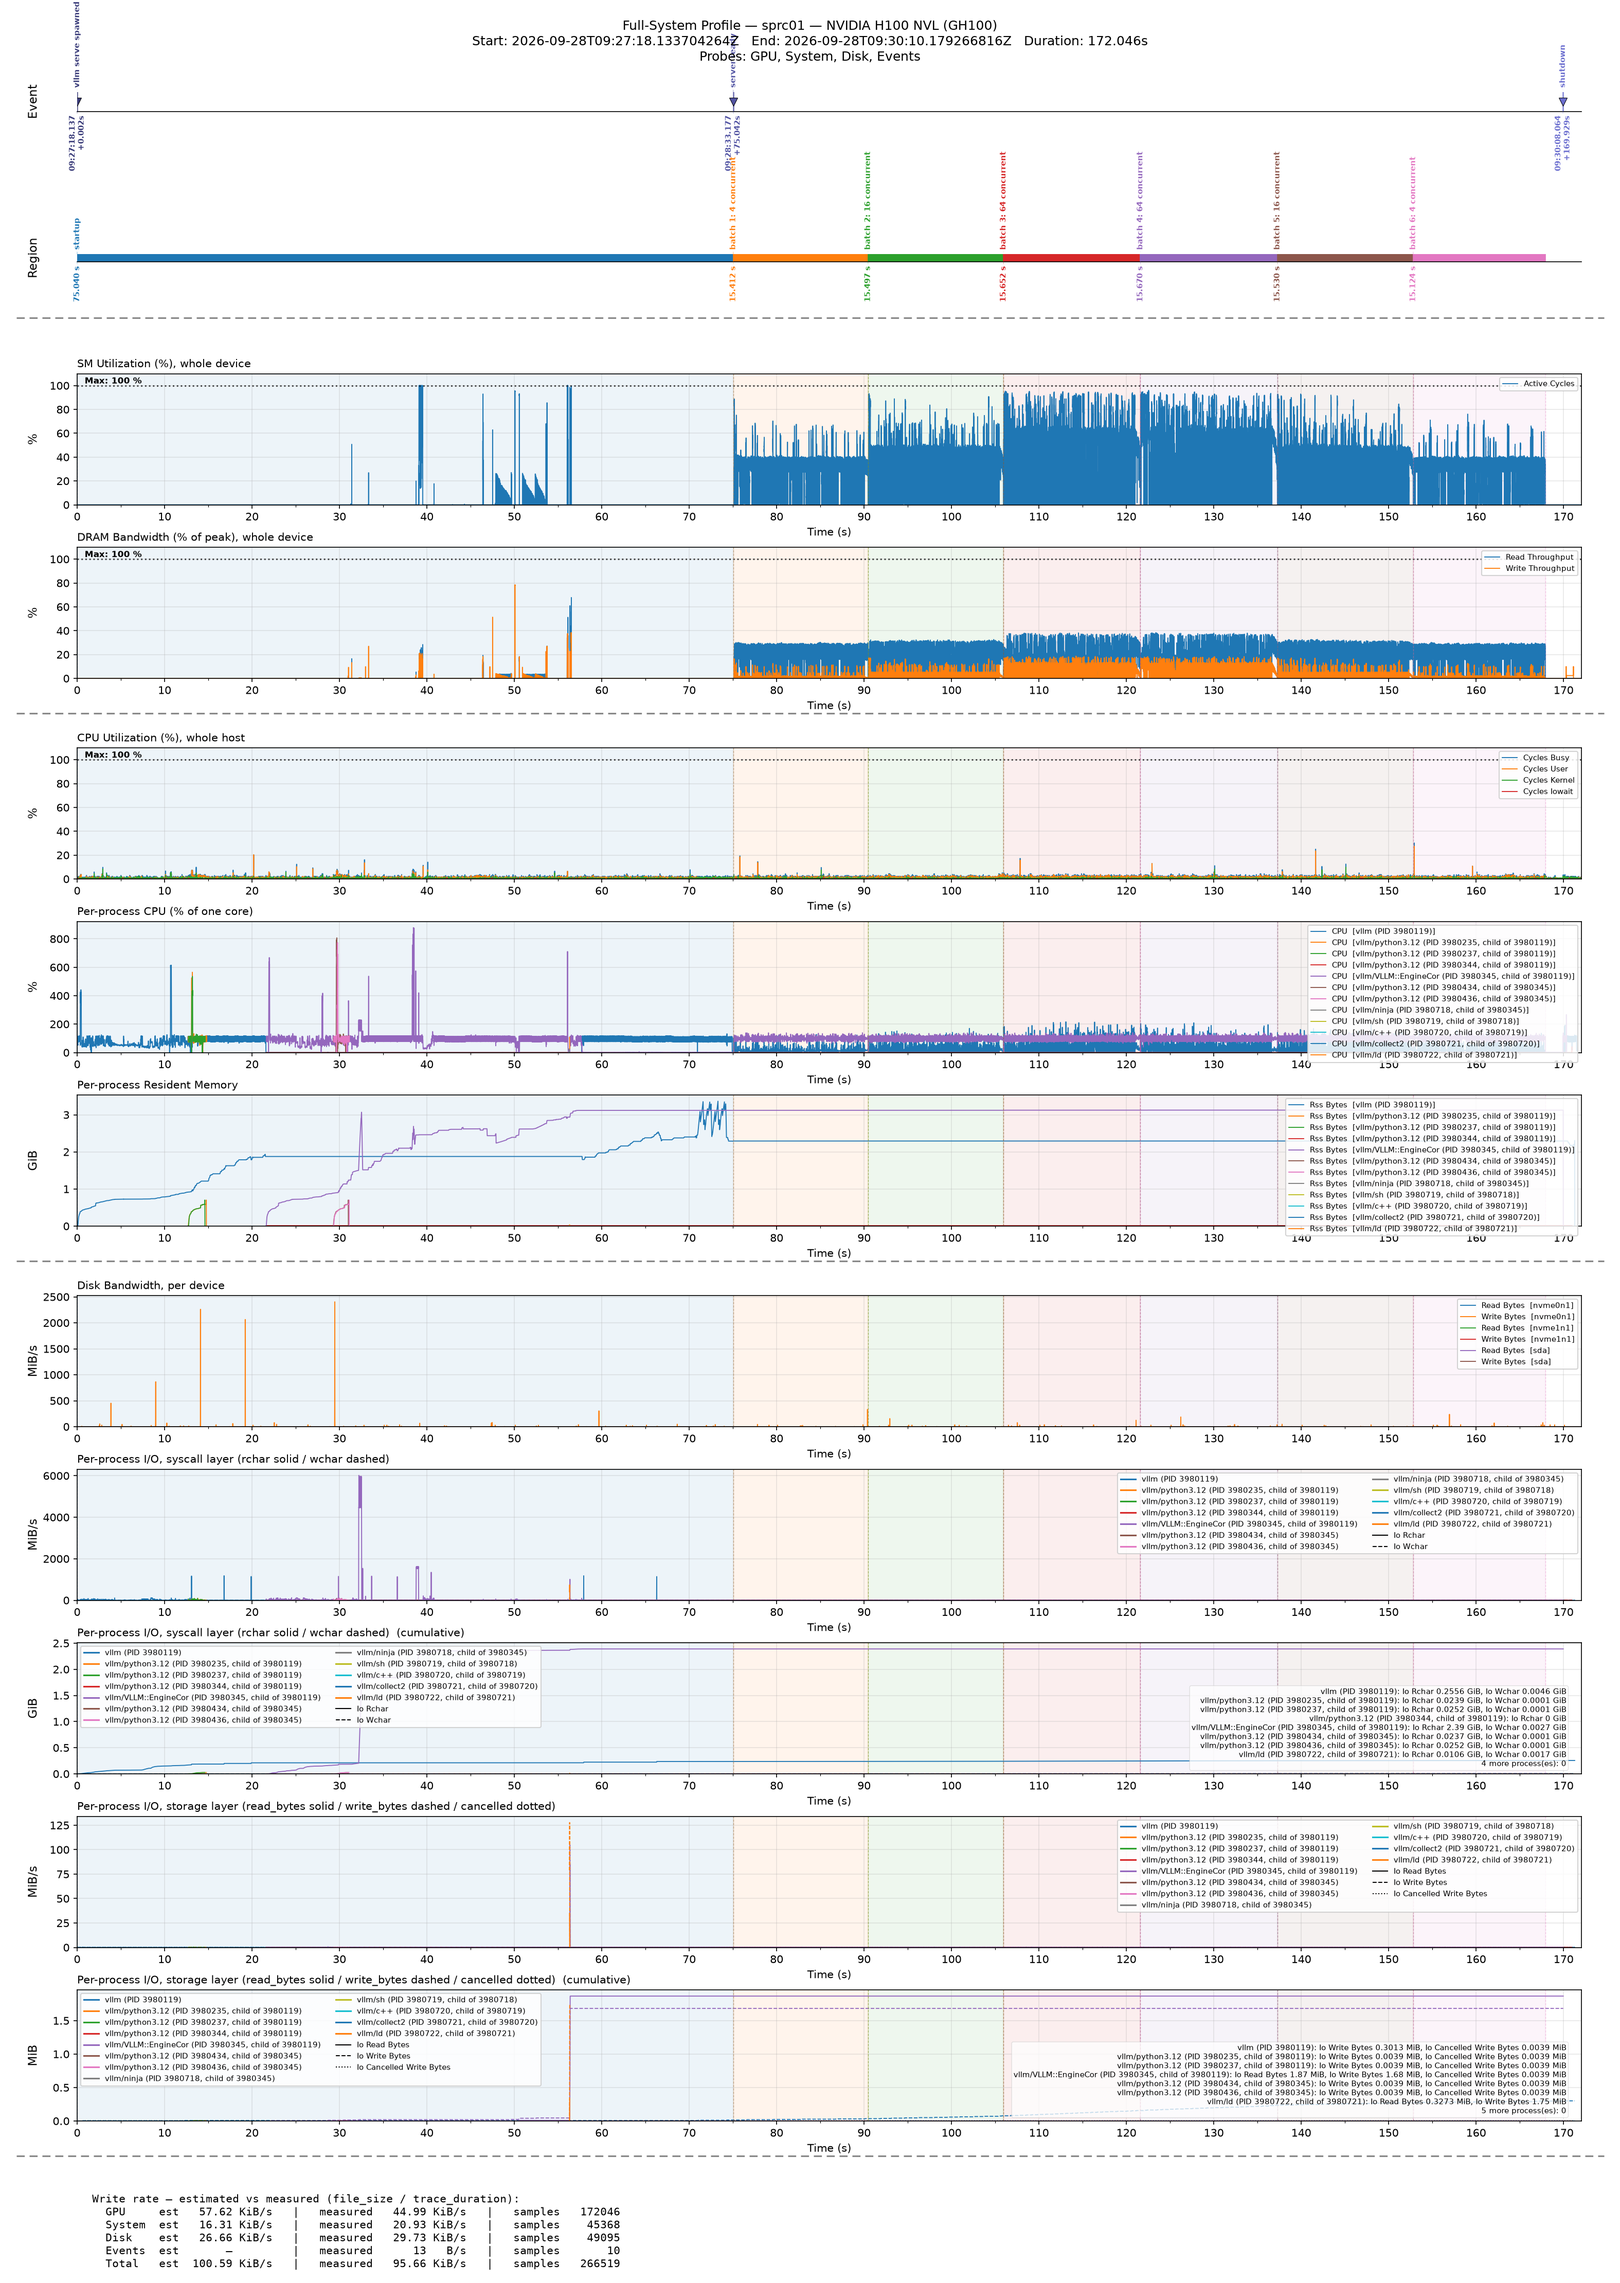
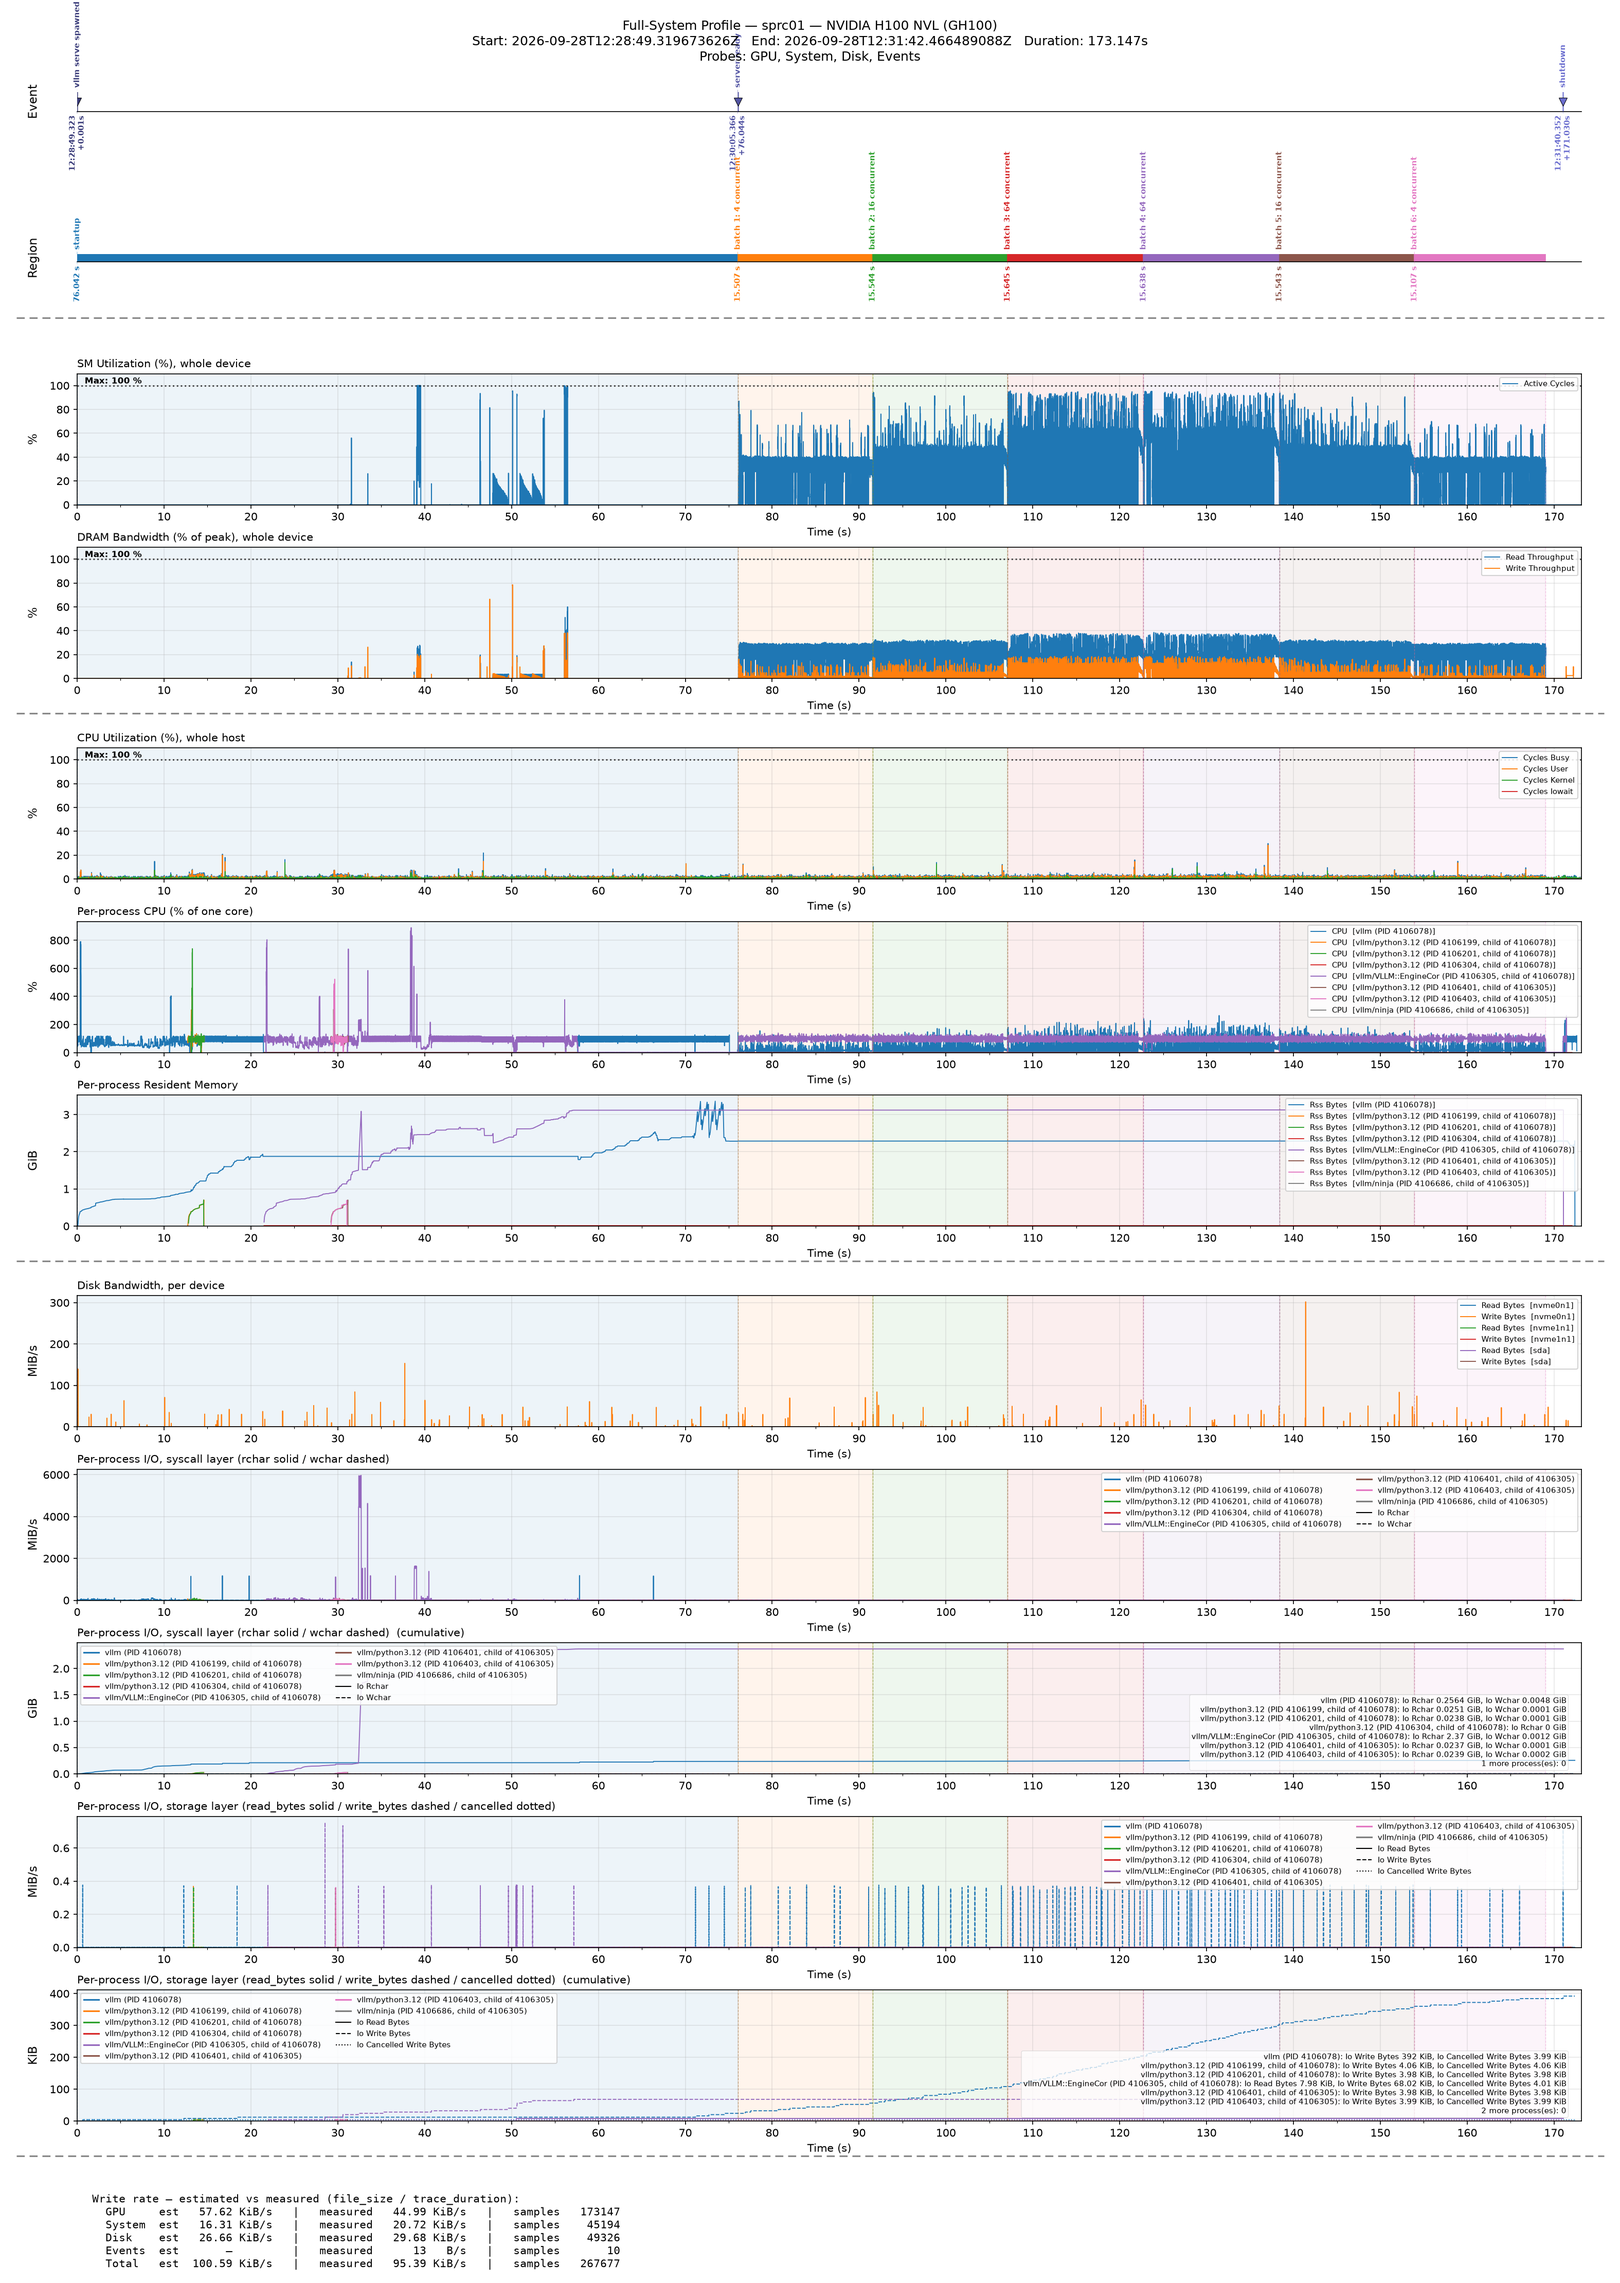
docs(examples): re-render the vLLM figure with the launcher adopting orphans
docs/images/vllm_serving.png is now a run of the example as shipped (the
launcher a child subreaper, GPU 1 kHz, System/Disk 100 Hz, 5 s flushes)
with warm compile caches on a quiet H100 node; the figure section and
process table are rewritten from it (ready 76 s, 3228 requests, CPU
reconcile -34 ms of 206 s, nothing alive >= 100 ms missed). A new
paragraph gives the cold-cache start of the same example: ~90 compiler
processes, 318.1 s of CPU in the trace against the kernel's 319.1 s
(-0.32%) with the reap chains resolved; +58% flagged ambiguous without
adopt_orphans(); such a run's figure overflows the per-process legends.

Claude-Session: https://claude.ai/code/session_01KGtpen56WsVzwjUE2dwvzH

diff --git a/docs/examples/vllm_serving.md b/docs/examples/vllm_serving.md
@@ -23,7 +23,7 @@ every one of them, from spawn to shutdown, from a small launcher.
    again. Without it those chains are flagged ambiguous in the trace
    (`CpuTail.ambiguous_pids` / `ambiguous_cpu_ns`, `IoReapAdjustment`
    `ambiguous`) and their CPU counted twice: a cold start measured 58% over
-   the kernel's total, against −0.36% with it. What it changes for the
+   the kernel's total, against −0.32% with it (see [cold compile caches](#the-run-in-the-figure)). What it changes for the
    launcher: [adopt_orphans()](../system-guide.md#what-changes-when-adopt_orphans-is-enabled).
 2. Builds a `ProfilerSuite` with the **System and Disk probes in SIDECAR
    mode** (the samplers run in the `cupti-profiler-sidecar` child, not in
@@ -104,69 +104,72 @@ renames; its rename history is in the table below.
 
 `Qwen/Qwen3.5-0.8B` on one H100 NVL, vLLM 0.29 from PyPI, `--gpu`, the
 defaults otherwise (System and Disk 100 Hz, GPU 1000 Hz, 100 ms scan, every
-probe flushing every 5 s), `-- --max-model-len 4096 --gpu-memory-utilization
-0.80`, warm compile caches, launcher not pinned, on an otherwise idle node
-(the whole-host CPU panel stays under 5%). The server was ready 75 s after
-spawn and served 3072 requests in the 90 s of load, none failed. What the
-example printed at the end, the trace's process table (times from the start
-of the trace; CPU = head + samples + exit tail):
+probe flushing every 5 s, the launcher a child subreaper),
+`-- --max-model-len 4096 --gpu-memory-utilization 0.80`, warm compile caches,
+launcher not pinned, on an otherwise idle node (the whole-host CPU panel
+stays under 5%). The server was ready 76 s after spawn and served 3228
+requests in the 90 s of load, none failed. What the example printed at the
+end, the trace's process table (times from the start of the trace; CPU =
+head + samples + exit tail):
 
 | pid | parent | kind | comm (history) | start s | end s | CPU s |
 |---|---|---|---|---|---|---|
-| 3980119 | 3980099 | root | `vllm` | 0.0 | 171.5 | 61.78 |
-| 3980235 | 3980119 | discovered | `python3.12` | 12.6 | 14.8 | 2.34 |
-| 3980237 | 3980119 | discovered | `python3.12` | 12.7 | 14.7 | 2.12 |
-| 3980345 | 3980119 | discovered | `python3.12` → `VLLM::EngineCor` | 21.6 | 170.4 | 131.42 |
-| 3980344 | 3980119 | discovered | `python3.12` | 21.6 | 171.0 | 0.04 |
-| 3980434 | 3980345 | discovered | `python3.12` | 29.2 | 31.1 | 2.19 |
-| 3980436 | 3980345 | discovered | `python3.12` | 29.3 | 31.2 | 2.19 |
-| 3980446 | 3980345 | discovered | `file` | 29.7 | 29.7 | 0.00 |
-| 3980454 | 3980434 | discovered | `ldconfig` | 29.8 | 29.8 | 0.00 |
-| 3980668 | 3980345 | discovered | `ldconfig.real` | 50.5 | 50.5 | 0.00 |
-| 3980718 | 3980345 | discovered | `ninja` | 56.2 | 56.4 | 0.05 |
-| 3980719 | 3980718 | discovered | `sh` | 56.2 | 56.3 | 0.05 |
-| 3980720 | 3980719 | discovered | `c++` | 56.2 | 56.3 | 0.00 |
-| 3980721 | 3980720 | discovered | `collect2` | 56.2 | 56.3 | 0.00 |
-| 3980722 | 3980721 | discovered | `ld` | 56.3 | 56.3 | 0.06 |
+| 4106078 | 4106058 | root | `vllm` | 0.0 | 172.6 | 66.95 |
+| 4106199 | 4106078 | discovered | `python3.12` | 12.7 | 14.7 | 2.00 |
+| 4106201 | 4106078 | discovered | `python3.12` | 12.7 | 14.6 | 2.08 |
+| 4106206 | 4106078 | discovered | `ldconfig.real` | 12.9 | 12.9 | 0.01 |
+| 4106305 | 4106078 | discovered | `python3.12` → `VLLM::EngineCor` | 21.4 | 171.5 | 130.62 |
+| 4106304 | 4106078 | discovered | `python3.12` | 21.4 | 172.1 | 0.03 |
+| 4106401 | 4106305 | discovered | `python3.12` | 29.1 | 31.2 | 2.24 |
+| 4106403 | 4106305 | discovered | `python3.12` | 29.2 | 31.1 | 2.19 |
+| 4106686 | 4106305 | discovered | `ninja` | 56.2 | 56.3 | 0.03 |
 
-The **root** (3980119, `vllm`) is the API server; kind `root` because the
-launcher listed it. **EngineCore** (3980345) was found as `python3.12` 21.6 s
+The **root** (4106078, `vllm`) is the API server; kind `root` because the
+launcher listed it. **EngineCore** (4106305) was found as `python3.12` 21.4 s
 in, before it renamed itself, and its alias followed the rename. The
-**multiprocessing helper** (3980344) lives for the whole run at ~0 CPU. The
+**multiprocessing helper** (4106304) lives for the whole run at ~0 CPU. The
 rest are **startup transients**: two pairs of short-lived Python workers
-(~2.2 s of CPU each; one pair under the API server, one under EngineCore)
-and a few tools EngineCore runs (`file`, `ldconfig`, a small `ninja` /
-`c++` / `ld` link at 56 s). Processes that lived less than one scan interval
-can be missing: in this run the oracle below saw 5 such, each alive at most
-10 ms.
+(~2.1 s of CPU each; one pair under the API server, one under EngineCore),
+an `ldconfig` and a small `ninja` build. Processes that lived less than one
+scan interval can be missing: in this run the oracle below saw 5 such.
 
 The panels line up with vLLM's own log (times from the start of the trace):
-EngineCore starts at 21.6 s and loads the weights at ~32 s (the step in its
-cumulative `rchar`; vLLM: "Loading weights took 0.47 seconds"); its profiling
-warmup and two CUDA graph captures (finished at 49 s and 53 s) are the GPU
+EngineCore starts at 21.4 s and loads the weights at ~33 s (the step in its
+cumulative `rchar`; vLLM: "Loading weights took 0.46 seconds"); its profiling
+warmup and two CUDA graph captures (finished at 50 s and 53 s) are the GPU
 activity during startup and its bursts of several cores; its init finishes at
 57 s, and the API server, busy at ~100% of a core through most of startup,
-answers `/v1/models` at 75 s. Under load both run near one core each;
+answers `/v1/models` at 76 s. Under load both run near one core each;
 resident memory reaches ~3.1 GiB (EngineCore) and ~2.3 GiB (API server).
-(`torch.compile` was a cache hit here, 0.3 s; with cold caches startup takes
-minutes and spawns many more short-lived compiler processes, each traced if
-it lives ≥ 100 ms.)
 
-### Checked on eight runs
+**Cold compile caches.** With empty caches the same example takes 158 s to
+be ready and runs ~90 short-lived compiler processes (`ninja`, `nvcc`, `sh`,
+`cicc`, `cc1plus`, `ptxas`, ...), many of them `sh -c` shells that reap their
+compiler and exit within one sample interval. Because the launcher adopts
+orphans, those reap chains resolve: the trace's CPU for the whole tree was
+**318.1 s against the kernel's 319.1 s (−0.32%)**; the difference is what
+the ~65 processes shorter than a scan used. Without `adopt_orphans()` (the
+same run from a harness) the chains are flagged ambiguous and the trace
+reads **58% above** the kernel (`CpuTail.ambiguous_cpu_ns` carries the
+excess). Such a run's figure is hard to read: ~160 processes overflow the
+per-process panels' legends.
+
+### Checked on nine runs
 
 Six runs at earlier defaults (System and Disk 100 Hz, GPU 1000 Hz with the
 old collection loop; two without `--gpu`, then two pairs alternating), one at
-the 2026-09-25 defaults (System and Disk 50 Hz, GPU 500 Hz), and the run in
-the figure, each with a
+the 2026-09-25 defaults (System and Disk 50 Hz, GPU 500 Hz), and two at the
+current ones (one before the launcher adopted orphans; the run in the
+figure), each with a
 test-only oracle polling the run's cgroup every 10 ms and the launcher's
 `getrusage(RUSAGE_CHILDREN)`:
 
 | | result |
 |---|---|
-| Completeness: every process the oracle saw alive ≥ 100 ms is in the trace (both probes) | **8/8 runs** (7–8 such processes per run, 0 missed); the 3–9 missed per run were each seen alive ≤ 80.5 ms (the figure's run: 8 such, 5 missed, each ≤ 10 ms) |
-| Per-process CPU of the whole tree (Σ head + samples + tails) vs `getrusage(RUSAGE_CHILDREN)` once vLLM was reaped | trace **15–74 ms below** out of 196–221 s (0.008–0.035%); the figure's run: **36 ms above**, of 202 s (0.018%). What the trace cannot hold: the root's CPU after its last sample (a root has no exit tail: its parent, the launcher, is not tracked), and the CPU of the missed sub-100 ms processes |
-| Descendant tracking scan (the trace's `DiscoveryStats`) | p50 0.72–1.25 ms, p99 1.7–2.8 ms, 6–10 processes discovered, all seen exiting (the figure's run: p50 0.85 ms, p99 1.8 ms, 14) |
-| The sidecar's own CPU (exact, from `getrusage` across `stop()`) | At 100 Hz: **8.6–14.6% of one core** over the run, unpinned (8.6% on a quiet node without `--gpu`; 13.2–14.6% while the node was 40–70% busy or the launcher ran the GPU probe beside it). The figure's run, at the 100 Hz default with `--gpu` on a quiet node: **9.6%** (10.3% under load). What each rate costs, measured: [Sampling frequency guidance](../system-guide.md#sampling-frequency-guidance). Pin it with `sidecar_cpus` to keep it off the server's cores |
+| Completeness: every process the oracle saw alive ≥ 100 ms is in the trace (both probes) | **9/9 runs** (7–8 such processes per run, 0 missed); the 3–9 missed per run were each seen alive ≤ 80.5 ms (the figure's run: 7 such, 5 missed) |
+| Per-process CPU of the whole tree (Σ head + samples + tails) vs `getrusage(RUSAGE_CHILDREN)` once vLLM was reaped | trace **15–74 ms below** out of 196–221 s (0.008–0.035%); the figure's run: **34 ms below**, of 206 s (0.017%). What the trace cannot hold: the root's CPU after its last sample (a root has no exit tail: its parent, the launcher, is not tracked), and the CPU of the missed sub-100 ms processes |
+| Descendant tracking scan (the trace's `DiscoveryStats`) | p50 0.72–1.25 ms, p99 1.7–2.8 ms, 6–10 processes discovered, all seen exiting (the figure's run: p50 1.0 ms, p99 1.8 ms, 8) |
+| The sidecar's own CPU (exact, from `getrusage` across `stop()`) | At 100 Hz: **8.6–14.6% of one core** over the run, unpinned (8.6% on a quiet node without `--gpu`; 13.2–14.6% while the node was 40–70% busy or the launcher ran the GPU probe beside it). The figure's run, at the 100 Hz default with `--gpu` on a quiet node: **10.9%** (12.2% under load). What each rate costs, measured: [Sampling frequency guidance](../system-guide.md#sampling-frequency-guidance). Pin it with `sidecar_cpus` to keep it off the server's cores |
 
 ## GPU: device-wide counters from the launcher
 
